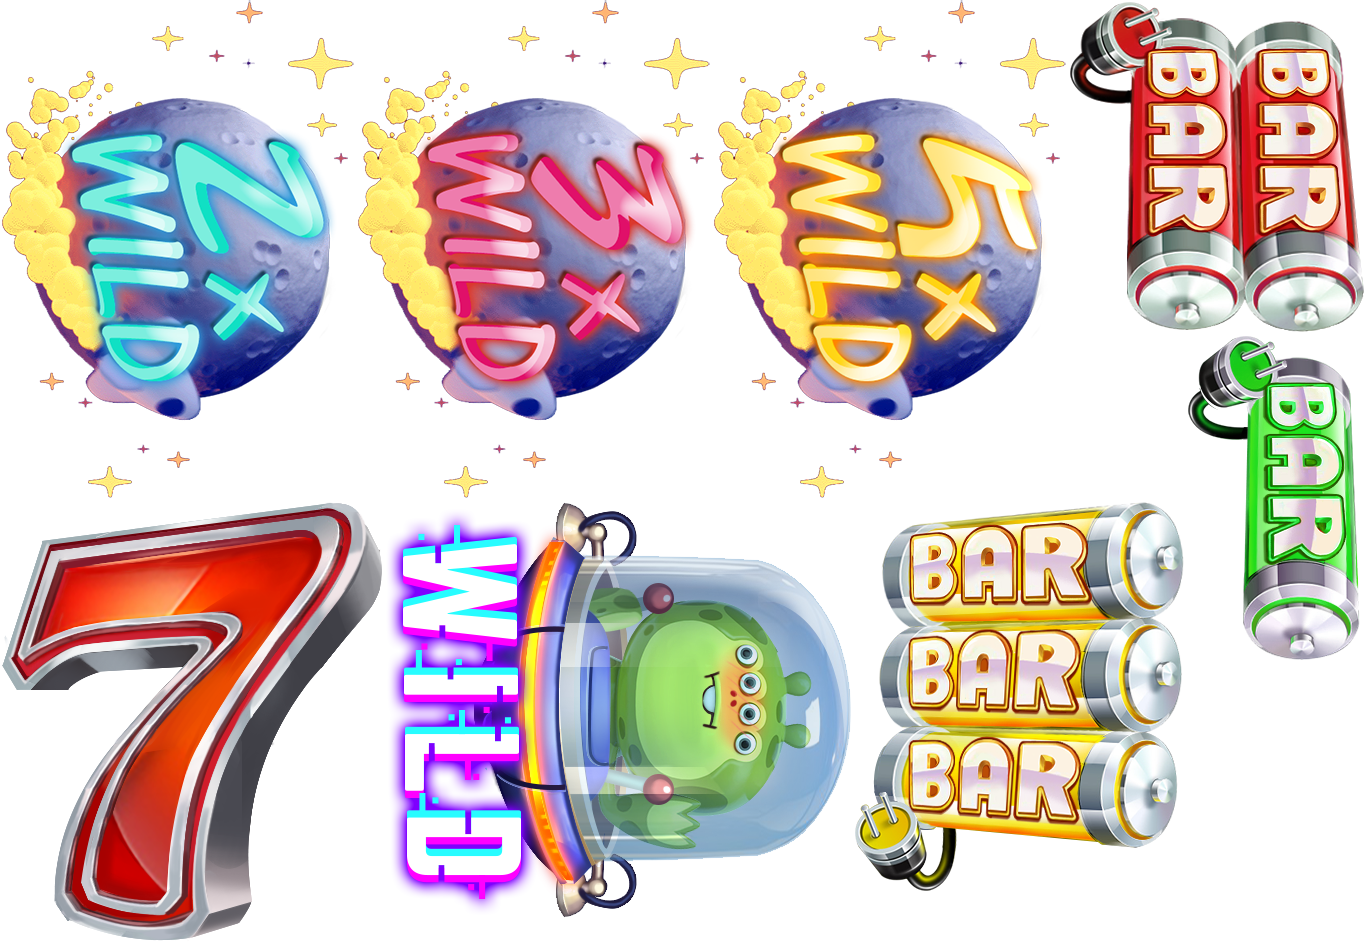
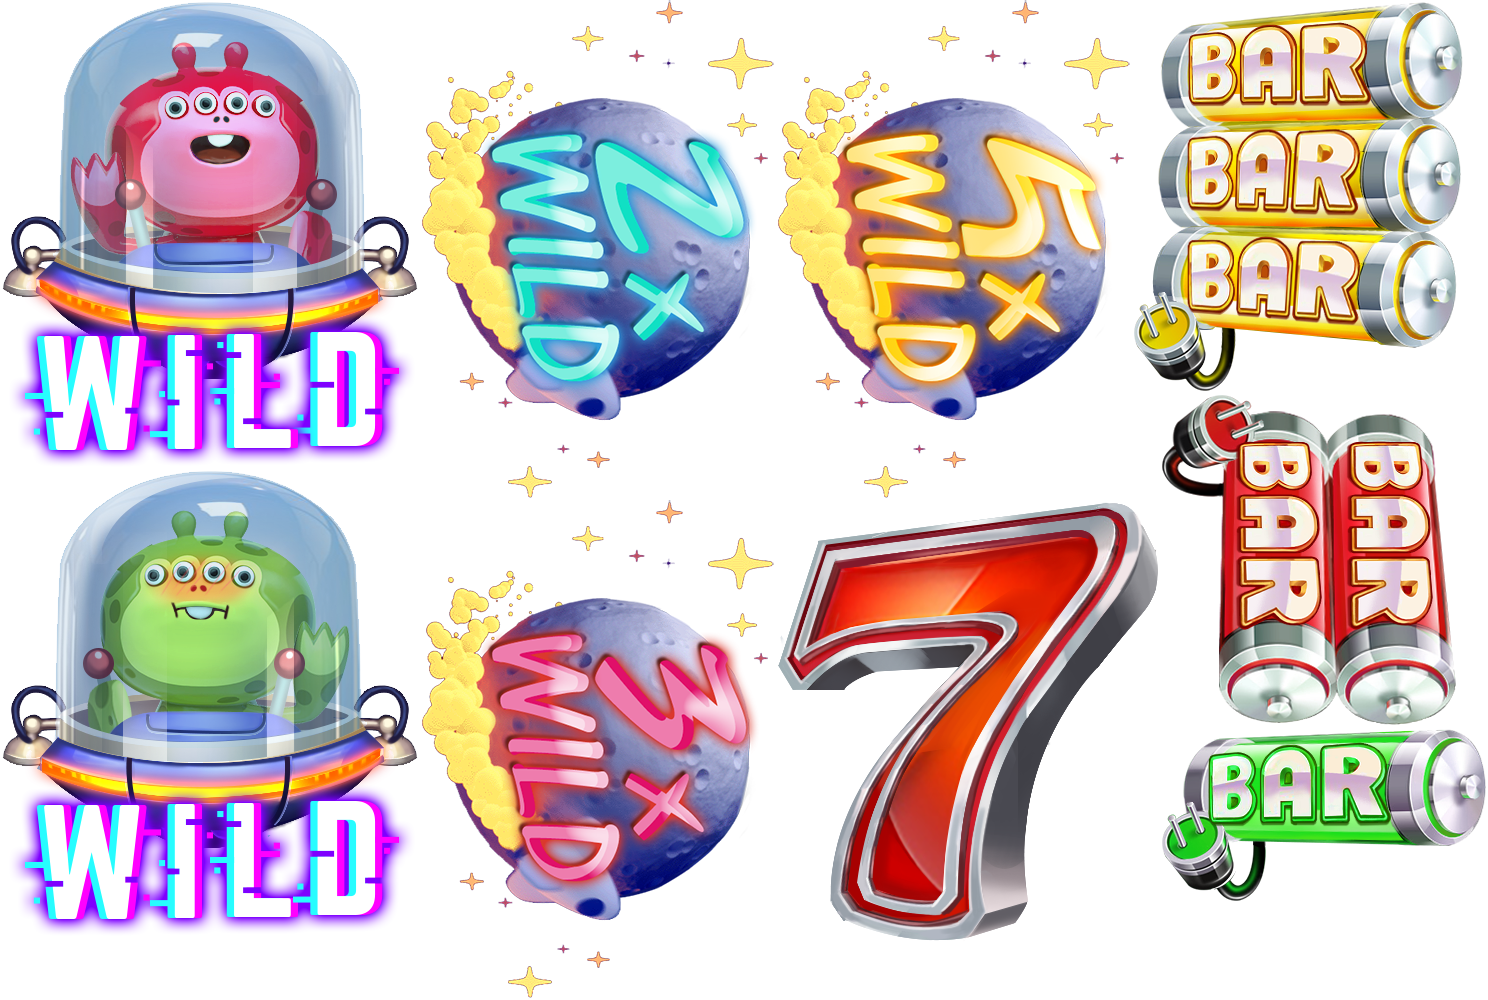
Add

diff --git a/src/game/scenes/main/logic/index.js b/src/game/scenes/main/logic/index.js
@@ -44,8 +44,22 @@ export function logic({slot, effects, reelTables}) {
         app.emit('Idle');
     }
 
+    function process(result) {
+        result.symbols =
+            result.symbols
+                .map((icon, index) => {
+                    if (icon === 0 && index !== 1) return `${icon}${index}`;
+
+                    return icon + '';
+                });
+
+        return result;
+    }
+
     async function display(result, reels = slot.reels) {
         table(result);
+
+        result = process(result);
 
         const {hasLink, symbols, scores} = result;
 
@@ -69,7 +83,11 @@ export function logic({slot, effects, reelTables}) {
     }
 
     async function test(symbols, reels = slot.reels) {
-        const displaySymbols = await spin(reels, symbols);
+        const result = process({symbols});
+
+        console.log(result);
+
+        const displaySymbols = await spin(reels, result.symbols);
 
         displaySymbols
             .forEach((symbol) => symbol.visible = false);
@@ -79,6 +97,6 @@ export function logic({slot, effects, reelTables}) {
                 .forEach((symbol) => symbol.visible = true);
         });
 
-        show(effects, symbols);
+        show(effects, result.symbols);
     }
 }

diff --git a/src/game/scenes/main/data/symbols.js b/src/game/scenes/main/data/symbols.js
@@ -2,15 +2,16 @@ import SYMBOLS from '../assets/symbols/symbols.json';
 import '../assets/symbols/symbols.png';
 
 export const symbolConfig = [
-    {id: 0, name: 'alien', texture: 'Alien.png'},
-    {id: 1, name: 'wild@5x', texture: 'Wildx5.png'},
-    {id: 2, name: 'wild@3x', texture: 'Wildx3.png'},
-    {id: 3, name: 'wild@2x', texture: 'Wildx2.png'},
-    {id: 4, name: 'seven', texture: 'Seven.png'},
-    {id: 5, name: 'bar@3', texture: 'Bar3.png'},
-    {id: 6, name: 'bar@2', texture: 'Bar2.png'},
-    {id: 7, name: 'bar@1', texture: 'Bar1.png'},
-    {id: 8, name: 'empty'},
+    {id: '00', name: 'alien@L', texture: 'Alien_L.png'},
+    {id: '02', name: 'alien@R', texture: 'Alien_R.png'},
+    {id: '1', name: 'wild@5x', texture: 'Wildx5.png'},
+    {id: '2', name: 'wild@3x', texture: 'Wildx3.png'},
+    {id: '3', name: 'wild@2x', texture: 'Wildx2.png'},
+    {id: '4', name: 'seven', texture: 'Seven.png'},
+    {id: '5', name: 'bar@3', texture: 'Bar3.png'},
+    {id: '6', name: 'bar@2', texture: 'Bar2.png'},
+    {id: '7', name: 'bar@1', texture: 'Bar1.png'},
+    {id: '8', name: 'empty'},
 ];
 
 export const symbols = [

diff --git a/src/game/scenes/main/components/slot/slot.js b/src/game/scenes/main/components/slot/slot.js
@@ -43,8 +43,15 @@ export function SlotMachine({view, table}) {
     };
 
     function process(table) {
-        return table.map((reel) =>
-            reel.filter((icon) => icon !== empty));
+        return table.map((reel, index) =>
+            reel
+                .map((icon) => {
+                    if (icon === 0 && index !== 1) return `${icon}${index}`;
+
+                    return icon + '';
+                })
+                .filter((icon) => icon !== empty),
+        );
     }
 }
 

diff --git a/src/game/scenes/main/logic/show.js b/src/game/scenes/main/logic/show.js
@@ -12,11 +12,12 @@ export function show(effects, icons) {
             [name, anim] = name.split('@');
         }
 
-        const tar = effect.getChildByName(name);
-
-        if (name === 'alien') {
+        if (name.includes('alien')) {
+            name = 'alien';
             anim = 'right';
         }
+
+        const tar = effect.getChildByName(name);
 
         if (name.includes('wild')) {
             tar.getChildByName('combo')
